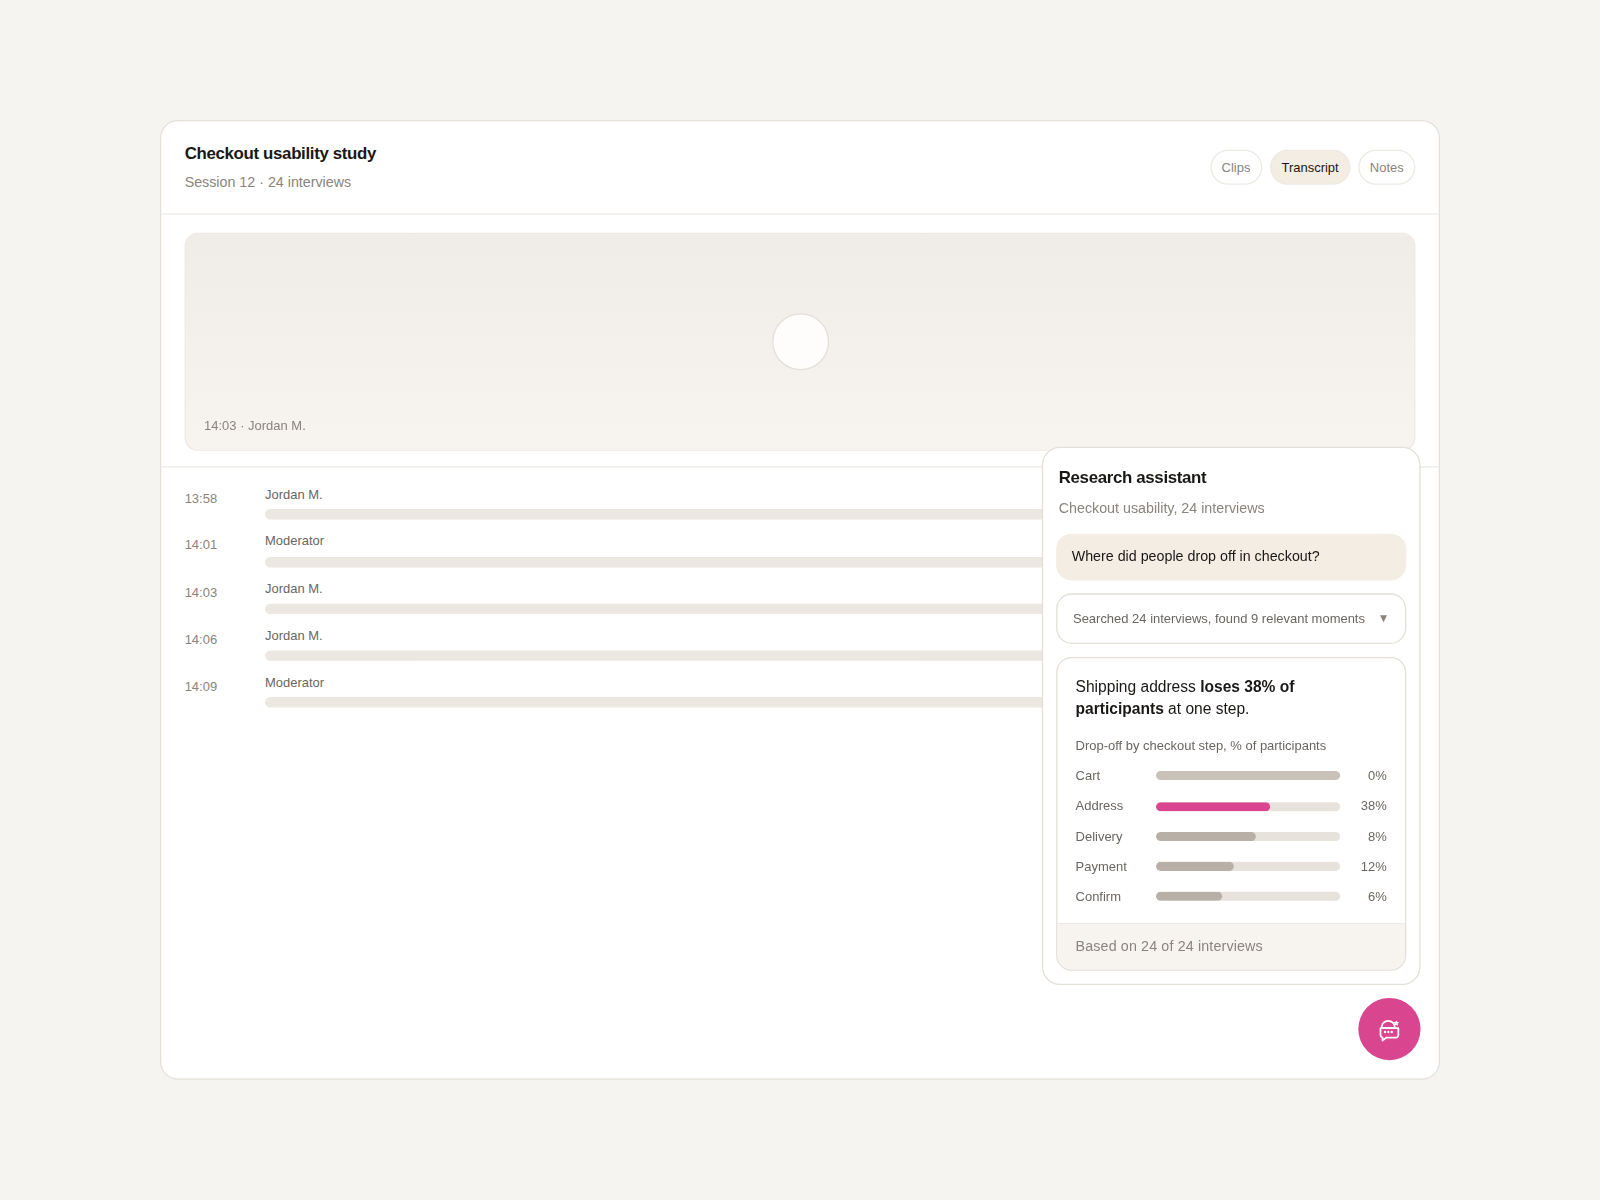
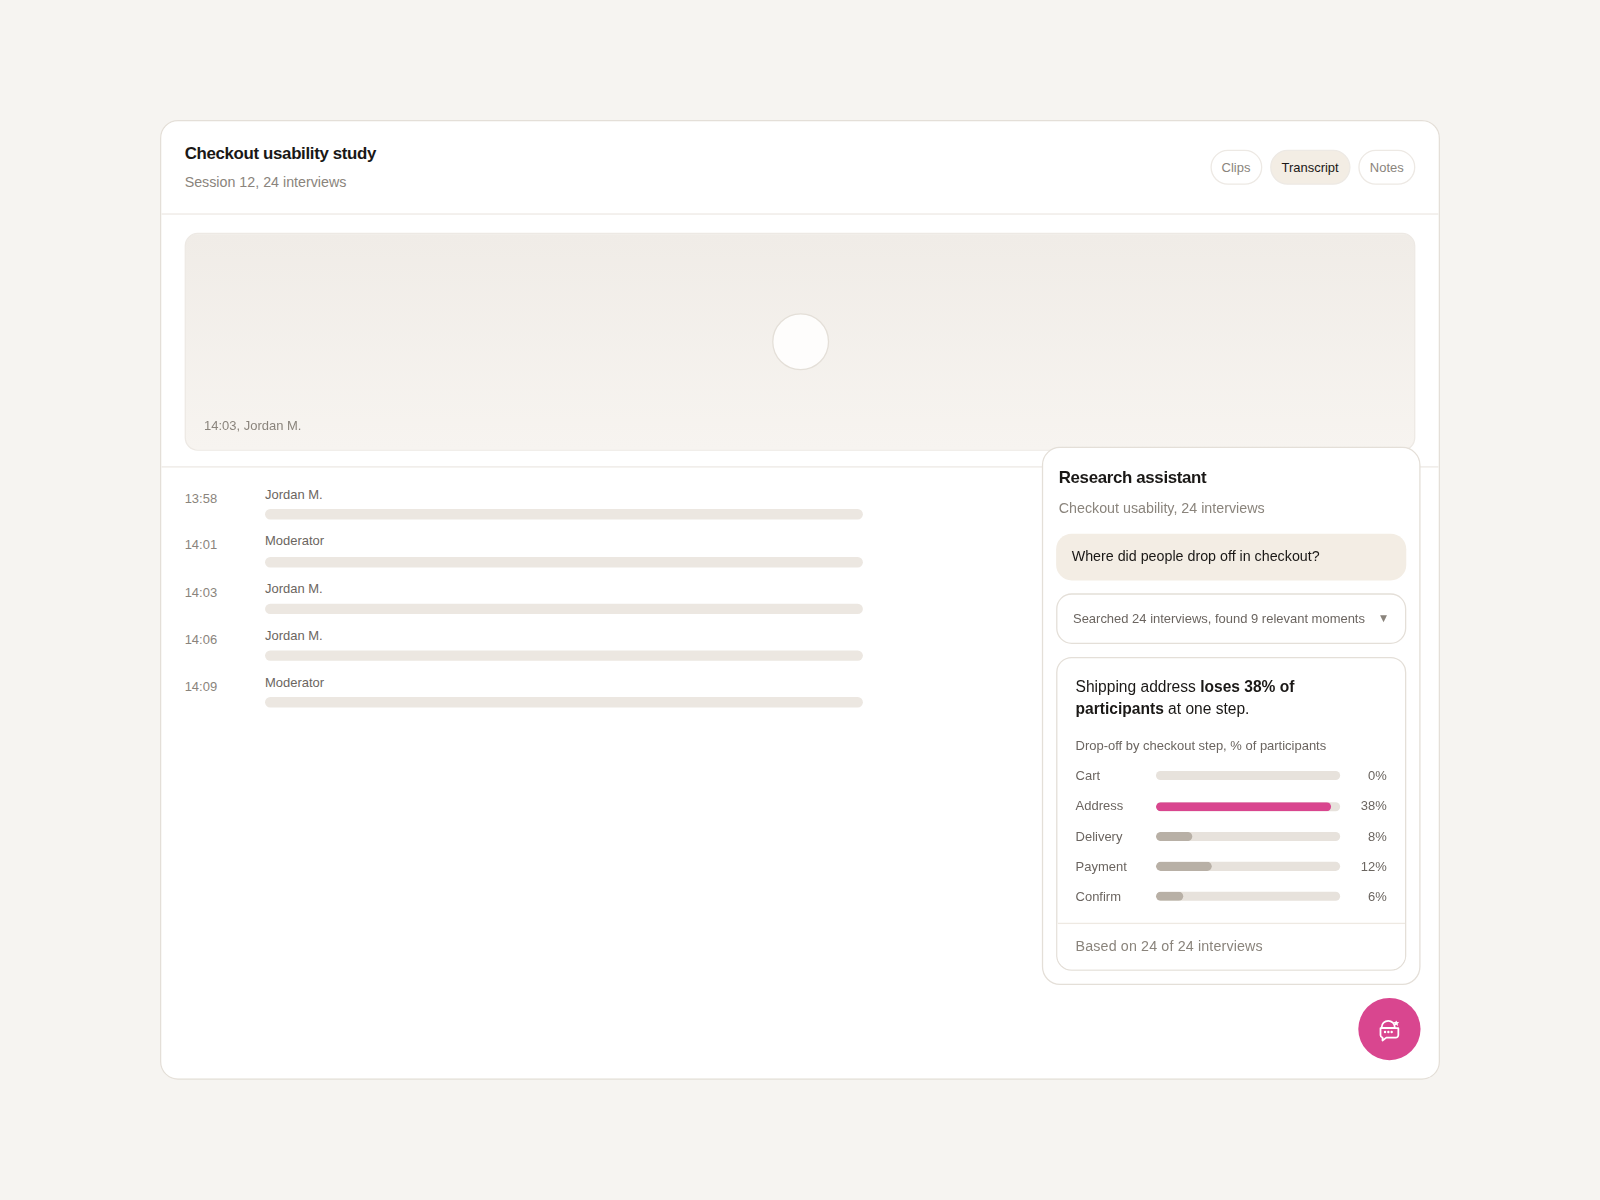
Dialogue placement: fix chart bars, copy, footer, floating transcript

diff --git a/components/dialogue/graphics/DropoffChart.tsx b/components/dialogue/graphics/DropoffChart.tsx
@@ -1,12 +1,15 @@
 import { DIALOGUE_GRAPHICS_COLORS, DIALOGUE_GRAPHICS_FONT } from "@/lib/caseStudies/dialogueGraphicsTheme";
 
+/** Drop-off % at each step — bar length equals the value (0% = empty track). */
 const STEPS = [
-  { label: "Cart", pct: 0, width: 100, tone: "neutral" as const },
-  { label: "Address", pct: 38, width: 62, tone: "accent" as const },
-  { label: "Delivery", pct: 8, width: 54, tone: "muted" as const },
-  { label: "Payment", pct: 12, width: 42, tone: "muted" as const },
-  { label: "Confirm", pct: 6, width: 36, tone: "muted" as const },
+  { label: "Cart", pct: 0, tone: "neutral" as const },
+  { label: "Address", pct: 38, tone: "accent" as const },
+  { label: "Delivery", pct: 8, tone: "muted" as const },
+  { label: "Payment", pct: 12, tone: "muted" as const },
+  { label: "Confirm", pct: 6, tone: "muted" as const },
 ];
+
+const CHART_MAX_PCT = 40;
 
 export function DropoffChart({ compact = false }: { compact?: boolean }) {
   const labelW = compact ? 54 : 62;
@@ -47,19 +50,21 @@ export function DropoffChart({ compact = false }: { compact?: boolean }) {
                 overflow: "hidden",
               }}
             >
-              <div
-                style={{
-                  width: `${step.width}%`,
-                  height: "100%",
-                  borderRadius: 4,
-                  background:
-                    step.tone === "accent"
-                      ? DIALOGUE_GRAPHICS_COLORS.accent
-                      : step.tone === "neutral"
-                        ? DIALOGUE_GRAPHICS_COLORS.barNeutral
-                        : DIALOGUE_GRAPHICS_COLORS.barMuted,
-                }}
-              />
+              {step.pct > 0 ? (
+                <div
+                  style={{
+                    width: `${(step.pct / CHART_MAX_PCT) * 100}%`,
+                    height: "100%",
+                    borderRadius: 4,
+                    background:
+                      step.tone === "accent"
+                        ? DIALOGUE_GRAPHICS_COLORS.accent
+                        : step.tone === "neutral"
+                          ? DIALOGUE_GRAPHICS_COLORS.barNeutral
+                          : DIALOGUE_GRAPHICS_COLORS.barMuted,
+                  }}
+                />
+              ) : null}
             </div>
             <span
               style={{

diff --git a/components/dialogue/DialogueStudyHostPage.tsx b/components/dialogue/DialogueStudyHostPage.tsx
@@ -1,7 +1,12 @@
 import { DIALOGUE_GRAPHICS_COLORS, DIALOGUE_GRAPHICS_FONT } from "@/lib/caseStudies/dialogueGraphicsTheme";
 
 /** Study-page chrome shared by docked and floating placement tiles. */
-export function DialogueStudyHostPage() {
+export function DialogueStudyHostPage({
+  reserveRightForFloatingChat = false,
+}: {
+  reserveRightForFloatingChat?: boolean;
+}) {
+  const barMaxWidth = reserveRightForFloatingChat ? "52%" : undefined;
   return (
     <div
       style={{
@@ -36,7 +41,7 @@ export function DialogueStudyHostPage() {
             Checkout usability study
           </div>
           <div style={{ marginTop: 2, fontSize: 11, color: DIALOGUE_GRAPHICS_COLORS.inkSoft }}>
-            Session 12 · 24 interviews
+            Session 12, 24 interviews
           </div>
         </div>
         <div style={{ display: "flex", gap: 6 }}>
@@ -96,7 +101,7 @@ export function DialogueStudyHostPage() {
               color: DIALOGUE_GRAPHICS_COLORS.inkSoft,
             }}
           >
-            14:03 · Jordan M.
+            14:03, Jordan M.
           </div>
         </div>
       </div>
@@ -129,6 +134,7 @@ export function DialogueStudyHostPage() {
                 style={{
                   height: 8,
                   width: row.width,
+                  maxWidth: barMaxWidth,
                   borderRadius: 4,
                   background: DIALOGUE_GRAPHICS_COLORS.studyLine,
                 }}

diff --git a/components/dialogue/graphics/DerivedEvidenceLabel.tsx b/components/dialogue/graphics/DerivedEvidenceLabel.tsx
@@ -1,18 +1,14 @@
 import type { ReactNode } from "react";
 import { DIALOGUE_GRAPHICS_COLORS, DIALOGUE_GRAPHICS_FONT } from "@/lib/caseStudies/dialogueGraphicsTheme";
 
+/** Plain derived footer with full-bleed hairline (matches section-imperfect cards). */
 export function DerivedEvidenceLabel({ children }: { children: ReactNode }) {
   return (
     <div
       style={{
-        marginTop: 12,
-        marginLeft: -14,
-        marginRight: -14,
-        marginBottom: -14,
+        borderTop: `1px solid ${DIALOGUE_GRAPHICS_COLORS.footerHairline}`,
+        background: DIALOGUE_GRAPHICS_COLORS.surface,
         padding: "10px 14px",
-        borderTop: `1px solid ${DIALOGUE_GRAPHICS_COLORS.borderSubtle}`,
-        background: DIALOGUE_GRAPHICS_COLORS.surfaceMuted,
-        borderRadius: "0 0 12px 12px",
         fontFamily: DIALOGUE_GRAPHICS_FONT,
         fontSize: 11,
         lineHeight: 1.35,

diff --git a/components/dialogue/graphics/EvidenceAnswerCard.tsx b/components/dialogue/graphics/EvidenceAnswerCard.tsx
@@ -17,7 +17,7 @@ export function EvidenceAnswerCard({ compact = false }: { compact?: boolean }) {
         fontFamily: DIALOGUE_GRAPHICS_FONT,
       }}
     >
-      <div style={{ padding: PAD }}>
+      <div style={{ padding: PAD, paddingBottom: 12 }}>
         <p
           style={{
             margin: "0 0 12px",
@@ -30,8 +30,8 @@ export function EvidenceAnswerCard({ compact = false }: { compact?: boolean }) {
           <strong style={{ fontWeight: 600 }}>loses 38% of participants</strong> at one step.
         </p>
         <DropoffChart compact={compact} />
-        <DerivedEvidenceLabel>Based on 24 of 24 interviews</DerivedEvidenceLabel>
       </div>
+      <DerivedEvidenceLabel>Based on 24 of 24 interviews</DerivedEvidenceLabel>
     </div>
   );
 }

diff --git a/components/dialogue/DialoguePlacementScene.tsx b/components/dialogue/DialoguePlacementScene.tsx
@@ -27,7 +27,7 @@ function PlacementFrame({ variant }: { variant: PlacementVariant }) {
         }}
       >
         <div style={{ width: PLACEMENT_STUDY_WIDTH_DOCKED, flexShrink: 0, height: "100%" }}>
-          <DialogueStudyHostPage />
+          <DialogueStudyHostPage reserveRightForFloatingChat={false} />
         </div>
         <div
           style={{
@@ -56,7 +56,7 @@ function PlacementFrame({ variant }: { variant: PlacementVariant }) {
         background: DIALOGUE_GRAPHICS_COLORS.surface,
       }}
     >
-      <DialogueStudyHostPage />
+      <DialogueStudyHostPage reserveRightForFloatingChat />
       <div
         style={{
           position: "absolute",

diff --git a/lib/caseStudies/dialogueGraphicsTheme.ts b/lib/caseStudies/dialogueGraphicsTheme.ts
@@ -9,6 +9,8 @@ export const DIALOGUE_GRAPHICS_COLORS = {
   inkSoft: "#8A847C",
   border: "#E4DFD8",
   borderSubtle: "#EDE9E4",
+  /** Derived-evidence footer hairline (section-imperfect) */
+  footerHairline: "#EEE9E2",
   surface: "#FFFFFF",
   surfaceMuted: "#F7F4F0",
   bubble: "#F3EDE4",
